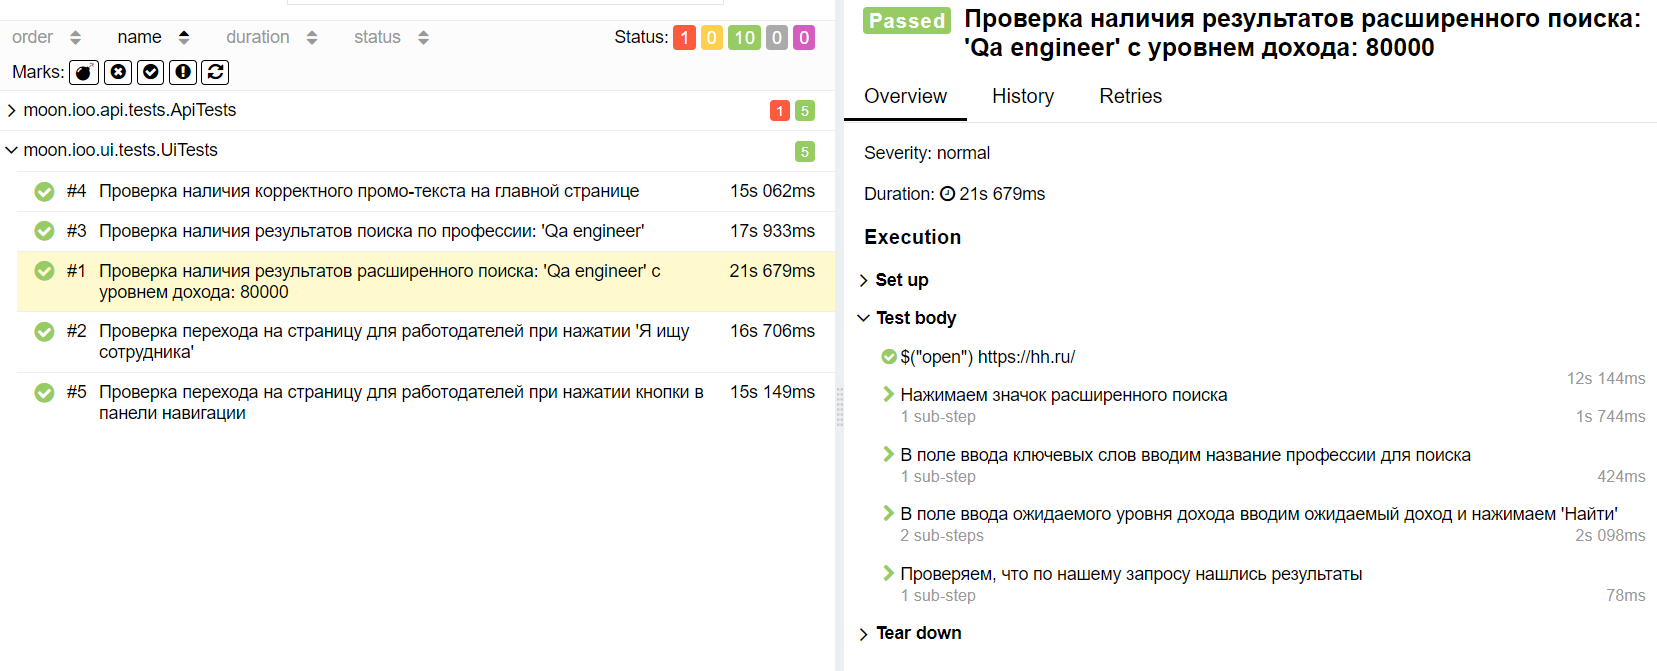
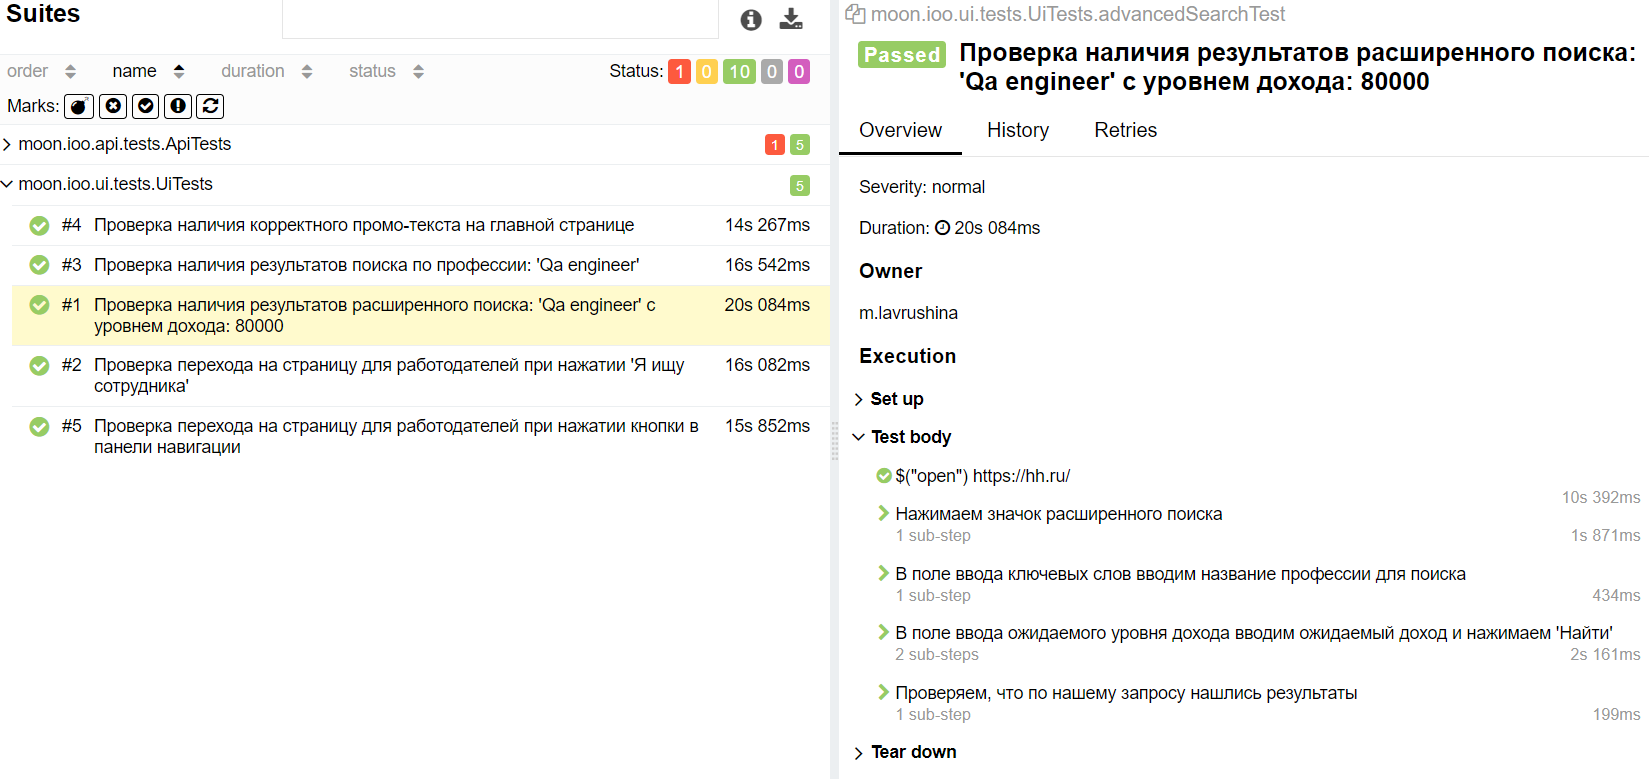
add allure_testOps screens

diff --git a/README.md b/README.md
@@ -62,16 +62,17 @@ gradle clean test
 gradle clean -DremoteDriverUrl=https://%s:%s@selenoid.autotests.cloud/wd/hub/ -DvideoStorage=https://selenoid.autotests.cloud/video/ -Dthreads=1 test
 ```
 ## <img src="https://github.com/ioomoon/QA-guru-graduation/blob/master/img/icon6.png?raw=true" width="25"> Отчеты в Allure Report
-![](img/allure1.png "Java")
-![](img/allure2.png "Java")
-![](img/severity.png "Java")
+![](img/allure1.png "allure")
+![](img/allure2.png "allure")
+![](img/severity.png "allure")
 
 ## <img src="https://github.com/ioomoon/QA-guru-graduation/blob/master/img/icon6.png?raw=true" width="25"> Интеграция тестов c тест-менеджмент системой Allure TestOps
-
+![](img/allure_testOps1.png "allure_testOps")
+![](img/allure_testOps2.png "allure_testOps")
 
 
 ## <img src="https://github.com/ioomoon/QA-guru-graduation/blob/master/img/icon1.png?raw=true" width="25"> Telegram-уведомления о прохождении тестов
-![](img/telegram_notification.png "Java")
+![](img/telegram_notification.png "telegram_notification")
 
 :heart: <a target="_blank" href="https://qa.guru">qa.guru</a><br/>
 :blue_heart: <a target="_blank" href="https://t.me/qa_automation">t.me/qa_automation</a>
